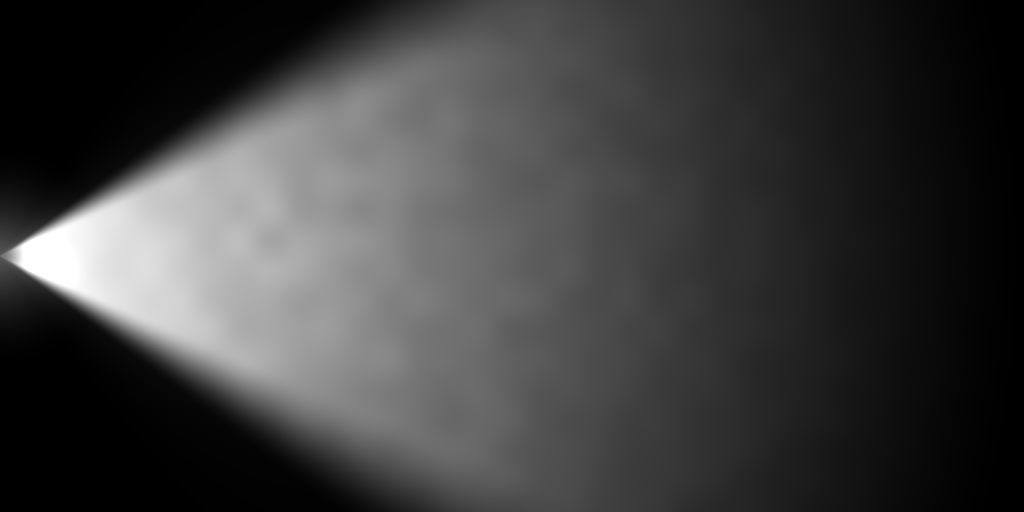
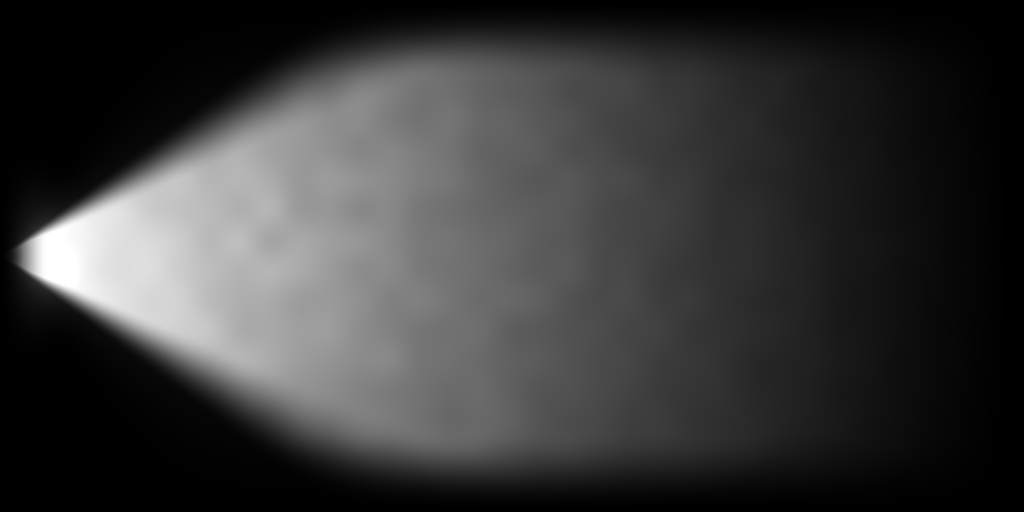
fix: make a fresh clone compile and align tests with the zones rework
On Godot 4.7.2 a fresh clone failed to compile (Variant type-inference treated as error) and the night scene script would not load: SovietChrome inward as Vector2; NightExplore ang as float and casings as Array[Dictionary]; NightZones INFO.get() as Dictionary.

Fix the campaign->night weapon bridge: CampaignSim.depart() passes the whole weapon Dictionary (as RaidSim reads it), NightExplore now accepts Dictionary or String instead of crashing on String(...).

Tests: explicit types in night_beats; expectations updated to current level specs (rabid/bruiser counts, canteen height, coldstore case); night_explore camera-shake assertion now samples peak offset/zoom over 4 frames instead of one oscillating frame (was flaky under load).

Art: feather the cone light textures (flashlight/OSK/searchlight) to zero at all four edges via a smoothstep mask in gen_vfx.light_cone, removing the hard-edged rectangular light band; regen_lights.py re-emits just those three PNGs.

Changed region(s): [[0.3438, 0.875, 0.8125, 1.0], [0.3438, 0.0, 0.8125, 0.125], [0.0, 0.4062, 0.0625, 0.5938]]

diff --git a/godot_project/tools/art_gen/gen_vfx.py b/godot_project/tools/art_gen/gen_vfx.py
@@ -22,6 +22,24 @@ def light_radial(n=512, power=2.0, core=0.0):
     return to_img(np.repeat(f[..., None], 3, -1))
 
 
+def _edge_falloff(w, h, fx=48, fy=80):
+    """四周 smoothstep 羽化到 0 的乘性 mask，返回 (h, w) 数组。
+
+    为什么需要：±30°/±22.5° 的锥角在 1024×512 画布里，光束在到达右边缘之前
+    就先撞到上下边缘（半宽 512·tan30° ≈ 295 px > 半高 256 px），顶点又贴在左边缘，
+    于是上/下/左三条边的亮度不是 0。PointLight2D 用整张矩形贴图参与光照，
+    非零边缘就会在世界里投出带硬边的长方形光带（截图里横贯全屏的灰白带子）。
+    让边缘严格渐变到 0，矩形边界就看不见了。
+    """
+    xs = np.arange(w, dtype=np.float32) + 0.5
+    ys = np.arange(h, dtype=np.float32) + 0.5
+    mx = np.clip(np.minimum(xs, w - xs) / fx, 0, 1)
+    my = np.clip(np.minimum(ys, h - ys) / fy, 0, 1)
+    mx = mx * mx * (3 - 2 * mx)          # smoothstep
+    my = my * my * (3 - 2 * my)
+    return mx[None, :] * my[:, None]
+
+
 def light_cone(half_deg, w=1024, h=512, edge=0.18, power=1.5, spill=0.12, seed=0, hard=False):
     ys, xs = np.mgrid[0:h, 0:w].astype(np.float32)
     dx, dy = xs + 0.5, ys + 0.5 - h / 2
@@ -35,6 +53,7 @@ def light_cone(half_deg, w=1024, h=512, edge=0.18, power=1.5, spill=0.12, seed=0
     glow = smooth(half * 1.9, half * 0.6, ang) * spill * np.clip(1 - r * 1.6, 0, 1) ** 2
     near = np.clip(1 - r * 9, 0, 1) ** 2 * 0.35
     f = np.clip(beam * fall * rings + glow + near, 0, 1)
+    f *= _edge_falloff(w, h)
     return to_img(np.repeat(f[..., None], 3, -1))
 
 

diff --git a/godot_project/tools/art_gen/regen_lights.py b/godot_project/tools/art_gen/regen_lights.py
@@ -1,0 +1,31 @@
+"""只重新生成 3 张锥形灯光贴图（手电 / OSK 缴获灯 / 探照灯）。
+
+为什么单开一步：`gen_assets.py vfx` 会把所有 VFX 重出，而 PIL/numpy 版本差异
+会让无关旧资产出现肉眼不可见、但字节不同的差异（见 build_weapons 的注释）。
+灯光羽化修复只需要动这 3 张共享贴图，参数与 gen_assets.build_vfx 完全一致。
+
+用法（在 godot_project/tools/art_gen 下）：
+    python regen_lights.py
+"""
+import os
+import sys
+
+HERE = os.path.dirname(os.path.abspath(__file__))
+sys.path.insert(0, HERE)
+
+import gen_vfx as V  # noqa: E402
+
+ART = os.path.abspath(os.path.join(HERE, "..", "..", "art", "50_vfx"))
+os.makedirs(ART, exist_ok=True)
+
+# 与 gen_assets.build_vfx 中的参数一一对应
+SPECS = [
+    ("VFX_Light_Cone_Flashlight", V.light_cone(30, edge=0.25, power=1.3, seed=1)),
+    ("VFX_Light_Cone_OSK", V.light_cone(22.5, edge=0.15, power=1.2, seed=2)),
+    ("VFX_Searchlight_Cone", V.light_cone(11, power=0.7, spill=0.2, seed=3, hard=True)),
+]
+
+for name, img in SPECS:
+    p = os.path.join(ART, name + ".png")
+    img.save(p)
+    print(f"wrote {p}  {img.size} {img.mode}", flush=True)
